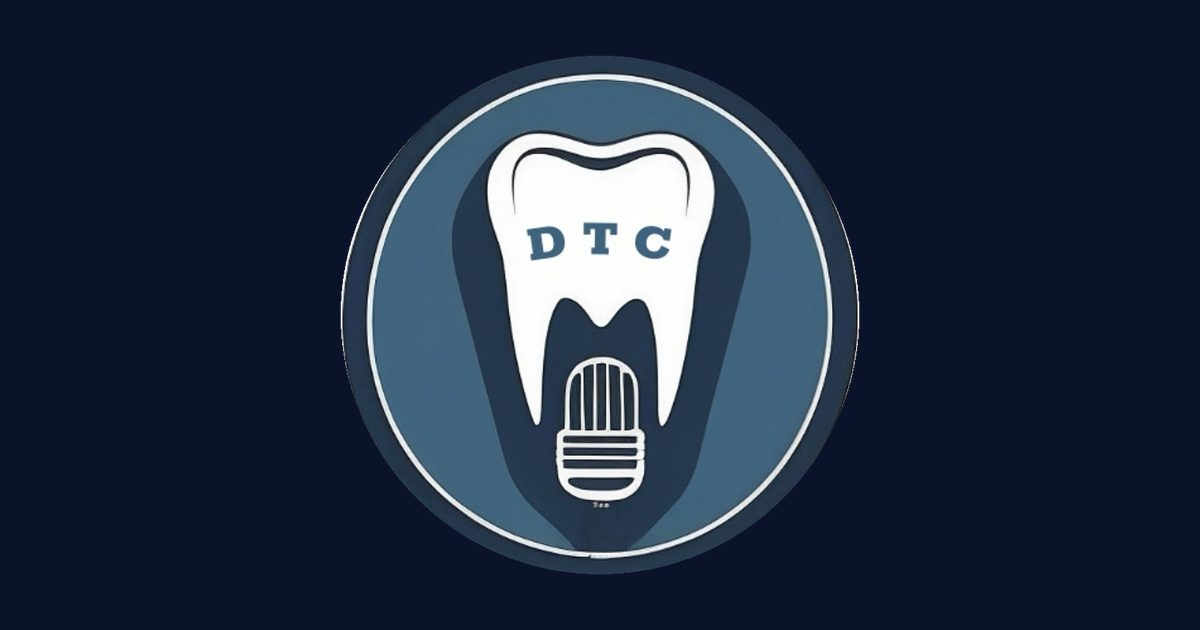
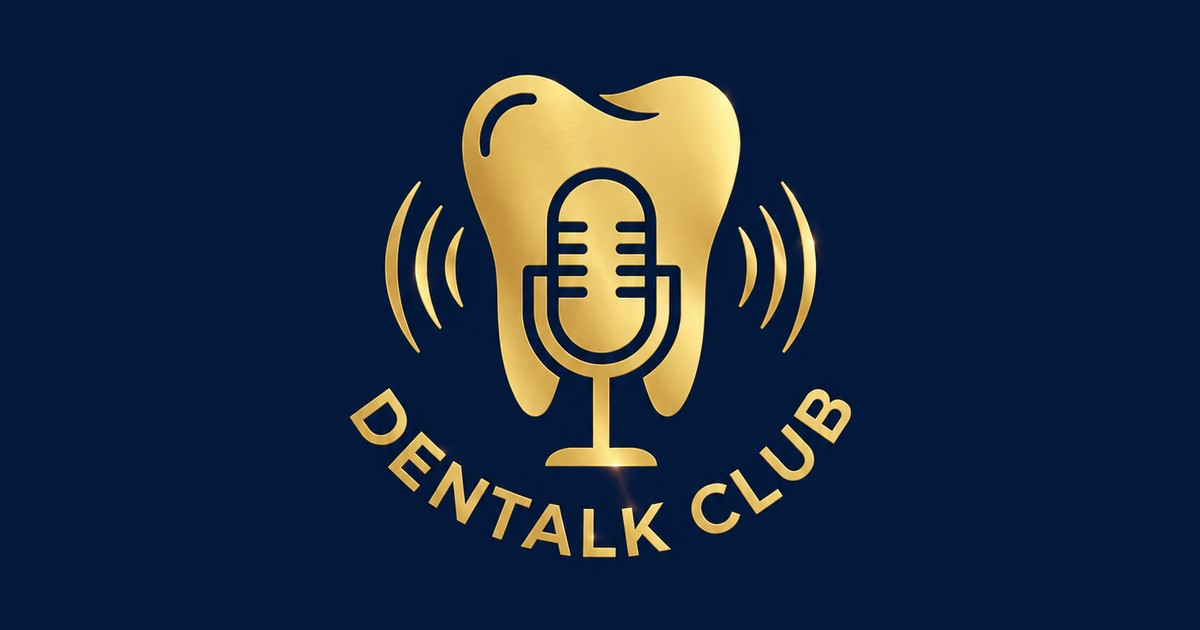
feat: new official emblem across site + kill dentalkclub-fmdc.vercel.app, secret page moves to vx72kq9.dentalkclubfmdc.com

Changed region(s): [[0.2775, 0.0905, 0.74, 0.9349]]

diff --git a/src/app/layout.tsx b/src/app/layout.tsx
@@ -1,5 +1,6 @@
 import type { Metadata, Viewport } from "next";
 import { Inter, Source_Serif_4 } from "next/font/google";
+import { headers } from "next/headers";
 import "@/styles/globals.css";
 import SiteChrome from "@/components/SiteChrome";
 import AuthProvider from "@/components/auth/AuthProvider";
@@ -93,6 +94,9 @@ export default async function RootLayout({
   // entirely (redirect + de-index happen in the page itself).
   const settings = await getSiteSettings();
   const navItems = siteConfig.getNavItems(settings.events_visible);
+  // Secret backstage host: strip chrome server-side (client usePathname
+  // sees the pre-rewrite URL, so it can't detect middleware rewrites).
+  const isSecretPage = (await headers()).get("x-secret-page") === "1";
 
   return (
     <html lang="fr" className={`${inter.variable} ${display.variable}`}>
@@ -110,6 +114,7 @@ export default async function RootLayout({
             tagline={settings.hero_tagline}
             sponsor={settings.sponsor}
             partnerClub={settings.partner_club}
+            forceChromeless={isSecretPage}
           >
             {children}
           </SiteChrome>

diff --git a/src/middleware.ts b/src/middleware.ts
@@ -1,12 +1,21 @@
 import { type NextRequest, NextResponse } from 'next/server'
 import { updateSession } from '@/utils/supabase/middleware'
 
-const SECRET_HOST = 'dentalkclub-fmdc.vercel.app'
+const SECRET_HOST = 'vx72kq9.dentalkclubfmdc.com'
+const DEAD_HOST = 'dentalkclub-fmdc.vercel.app'
 
 export async function middleware(request: NextRequest) {
   const host = request.headers.get('host')
+  if (host === DEAD_HOST) {
+    // retired host — owner asked it dead, serve nothing
+    return new Response(null, { status: 404 })
+  }
   if (host === SECRET_HOST) {
-    return NextResponse.rewrite(new URL('/secret', request.url))
+    const headers = new Headers(request.headers)
+    headers.set('x-secret-page', '1')
+    return NextResponse.rewrite(new URL('/secret', request.url), {
+      request: { headers },
+    })
   }
   if (request.nextUrl.pathname.startsWith('/secret')) {
     // secret page only lives on the backstage host — main domain gets nothing

diff --git a/src/components/SiteChrome.tsx b/src/components/SiteChrome.tsx
@@ -18,19 +18,24 @@ export default function SiteChrome({
   tagline,
   sponsor,
   partnerClub,
+  forceChromeless = false,
   children,
 }: {
   navItems: NavItem[];
   tagline?: string;
   sponsor?: PartnerCard;
   partnerClub?: PartnerCard;
+  /** server-side override (middleware header) — client pathname misses rewrites */
+  forceChromeless?: boolean;
   children: React.ReactNode;
 }) {
   const pathname = usePathname();
   const chromeless =
+    forceChromeless ||
     pathname.startsWith("/candidature") ||
     pathname === "/invitation" ||
-    pathname.startsWith("/invitation/");
+    pathname.startsWith("/invitation/") ||
+    pathname.startsWith("/secret");
   if (chromeless) {
     return <>{children}</>;
   }

diff --git a/docs/audit/activity_log.md b/docs/audit/activity_log.md
@@ -498,3 +498,16 @@ Audit UI rapide : 9 pages SSR 200 + titres OK ; crop viewport fixe 280px (OK ≥
 - **Vérifs live :** apex 307→/candidature (mur, comportement attendu) puis 200 ; jumble 200 sur le host backstage ; `/secret` absent du domaine principal ; juge agent 2/2 pass (landing + secret, captures headless-chrome).
 - **Caveat www :** certificat émis (CN=www… vérifié par test `--resolve` forcé) et DNS correct (CNAME `www → ac3db467f330eef2.vercel-dns-017.com` posé pour contourner le wildcard `.65`), mais l'edge Vercel ne sert le SNI www que sur une partie des clusters anycast (timeouts TCP depuis vantage local ET datacenter) — warmup interne Vercel, auto-résolutif ; apex = canonique, sain partout. À re-vérifier prochaine session.
 - **Reste :** build URLs `dtc-<hash>-venus55.vercel.app` exposent toujours le site réel (intrinsèque Vercel, non protégeable sans SSO qui tuerait aussi la page secrète) — accepté (obscurité, pas un coffre).
+
+## 2026-09-11 (2) — nouveau logo officiel + host backstage tué, page secrète relocalisée (v2.9.3)
+
+**Venus : nouveau logo (IMG_0173.PNG = émail or sur marine, nettoyé) à archiver + déployer ; et « just change the goddamn dentalkclub-fmdc.vercel.app, i dont want it to work no more ».**
+
+- **Logo :** original archivé `assets/branding/originals/IMG_0173_2026-09-11.PNG` + master recadré `assets/branding/dentalk-club-emblem-master.png` (bbox auto sur fond marine) ; dérivés régénérés : `public/logo.png` 716, `icon-512` 512, `apple-touch-icon` 180, `src/app/icon.png` 192, `favicon.{png,ico}` multi-16/32/48, `og-image.jpg` 1200×630 (emblème centré sur marine). Remplace la identité lettrine Auguste partout (navbar, JSON-LD, OG/Twitter, PWA, favicon).
+- **Host `dentalkclub-fmdc.vercel.app` = MORT :** retiré du projet via `DELETE /v9/projects/dtc/domains/…` (a marché pour un domaine vercel.app historique) + garde middleware → 404 nu. Le hostname ne sert plus rien.
+- **Page secrète relocalisée sur sous-domaine illisible de NOTRE zone : `vx72kq9.dentalkclubfmdc.com`** (CNAME → `cname.vercel-dns.com`) — URL non devinable, ne porte plus le nom du club.
+- **Chromeless réel :** leçon — `usePathname` (client) voit l'URL navigateur PRÉ-rewrite, jamais le chemin réécrit par le middleware → la garde `/secret` de SiteChrome ne pouvait pas feu sur le host backstage. Fix : le middleware pose `x-secret-page: 1` sur la requête, `layout.tsx` (server, `await headers()` — Next 15 async) lit et passe `forceChromeless` à SiteChrome → navbar+footer absents du rendu.
+- **Page illisible v2 :** tout texte réel éliminé (titre compris) — soupe de glyphes (tofu, runique, zálgo, flou + jitter CSS), `aria-label` français seul pour lecteurs d'écran, `prefers-reduced-motion` respecté. Juge : pass.
+- **Incident edge Vercel (contourné) :** mi-session, TOUTES les IPs anycast du domaine custom (ancien set 34.x/54.x ET 64.29.17.x/216.198.79.x) ont tarpitté en TCP-connect depuis vantage local ET datacenter, tandis que `*.vercel.app` (set 66.33.60.x/76.76.21.x) répondait et que les URLs de déploiement servaient le HTML en 1,6 s — fonctions saines, couche DNS/anycast fautive. Fix durable : zone Vercel DNS réécrite — apex en `ALIAS → cname.vercel-dns.com` (aplati auto vers le set sain), `www` + `vx72kq9` en `CNAME → cname.vercel-dns.com` ; retiré les records système/ALIAS pointant les cibles `vercel-dns-017` défaillantes. `www` fonctionne pour la PREMIÈRE fois (308→apex). Coût : si Vercel change un jour la cible canonique, nos CNAME suivent (auto-résolutif) — c'était le but.
+- **`dtc-lilac.vercel.app`** (3e porte historique oubliée) → 308 vers apex, parité avec `dtc-fmdc`.
+- **Vérifs :** juge agent pass (illisible + chromeless) ; deploy URLs 200/307 ; matrice complète dans la session. tsc 0.
